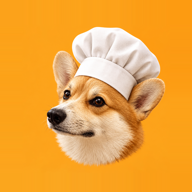
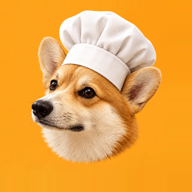
feat(pwa): корги на иконке крупнее и левее-выше
Рисунок увеличен на 10% относительно центра собаки и сдвинут на 5%
влево и вверх; maskable-иконка не менялась.

diff --git a/.github/pwa/sw.js b/.github/pwa/sw.js
@@ -1,6 +1,6 @@
 // Service worker сайта с рецептами: страницы и картинки, которые уже
 // открывались, остаются доступны без интернета.
-const CACHE = 'recipes-v5';
+const CACHE = 'recipes-v6';
 
 self.addEventListener('install', (event) => {
   // Главная страница нужна сразу, чтобы приложение открывалось офлайн.
